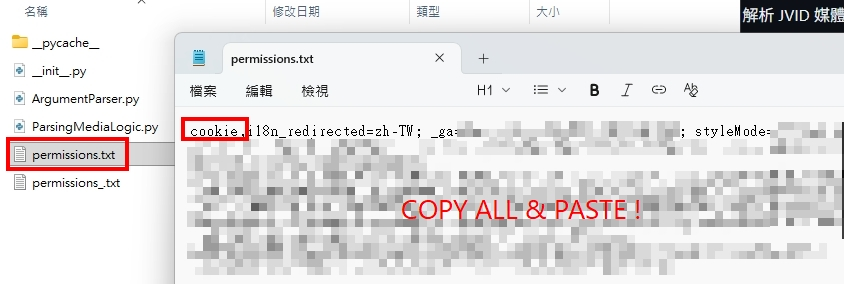
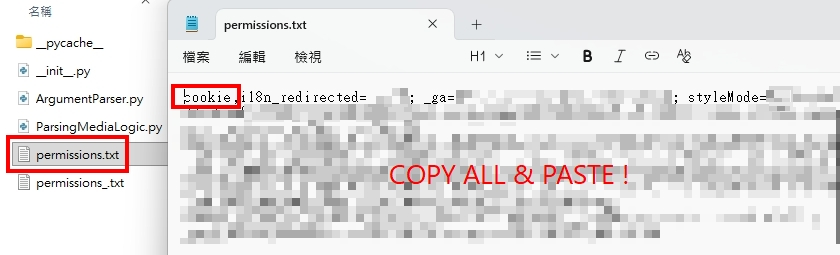
update somethings

diff --git a/README.md b/README.md
@@ -8,55 +8,63 @@
 [![](https://img.shields.io/badge/Package-pycryptodome_3.21.0-green.svg?style=plastic)](https://pypi.org/project/pandas/) 
 [![](https://img.shields.io/badge/Package-ArgumentParser_1.2.1-green.svg?style=plastic)](https://pypi.org/project/argumentparser/) 
 
-## STEP.1　CLONE
+## *STEP.1　CLONE*
 ```python
 git clone https://github.com/Junwu0615/Parsing-Media-From-JVID.git
 ```
 
-## STEP.2　INSTALL PACKAGES
+<br>
+
+## *STEP.2　INSTALL PACKAGES*
 ```python
 pip install -r requirements.txt
 ```
 
-## STEP.3　RUN
+<br>
+
+## *STEP.3　RUN*
 ```python
 python Entry.py -h
 ```
 
-## STEP.4　HELP
+<br>
 
+## *STEP.4　HELP*
 - `-h` Help : Show this help message and exit.
 - `-t` Type : Give a want todo type | ex: image / mp4 `default: image`
 - `-u` URL : Give a url of JVID | ex: 'https://www.jvid.com/v/[PAGE_ID]' `default: ''`
 - `-p` Path : Give a save path | ex: './media/' `default: media`
 
-## STEP.5　EXAMPLE
+<br>
 
-### I　執行前須注意事項
-- #### 環境可能需要安裝 [FFmpeg](https://www.ffmpeg.org/download.html) 解包套件，請參考頁尾文章
-- #### 現階段非同步的下載作業有`卡死問題`，因此選擇 `一般執行 [2]` 就好
+## *STEP.5　EXAMPLE*
+### *I　執行前須注意事項*
+- #### *環境可能需要安裝 [FFmpeg](https://www.ffmpeg.org/download.html) 解包套件，請參考頁尾文章*
+- #### *現階段非同步的下載作業有`卡死問題`，因此選擇 `一般執行 [2]`*
 
   - ![JPG](/sample/00.jpg) 
   
-- #### 將 package `permissions_.txt` -> `permissions.txt` 修改內容。
+- #### *將 package `permissions_.txt` -> `permissions.txt` 修改內容*
   ```python
   authorization,[Fill In Your Authorization] # 已移除
   cookie,[Fill In Your Cookie] # 從 F12 確認網路資源請求標頭帶入其中 Cookie 欄位
   ```
-  - #### 該網路資源同商品頁ID # `**PAGE_ID**`
+  - #### *該網路資源同商品頁ID `**PAGE_ID**`*
   - ![JPG](/sample/正確取得%20cookie%20位置.jpg)
   - ![JPG](/sample/cookie%20擺放示意.jpg)
   
-### II-A.　抓取網站影像 (.jpg)
+### *II-A.　抓取網站影像 ( .jpg )*
 ```python
 python Entry.py -t img -u https://www.jvid.com/v/**PAGE_ID**
 ```
 
-### II-B.　抓取網站串流影片 (.m3u8)
+### *II-B.　抓取網站串流影片 ( .m3u8 )*
 ```python
 python Entry.py -t mp4 -u https://www.jvid.com/v/**PAGE_ID**
 ```
 
-## 參考來源
+<br>
+
+## *Reference*
 - [FFmpeg Windows 安裝教學](https://vocus.cc/article/64701a2cfd897800014daed0)
 - [解碼 TS 串流媒體方式](https://cloud.tencent.com/developer/article/2258872)
